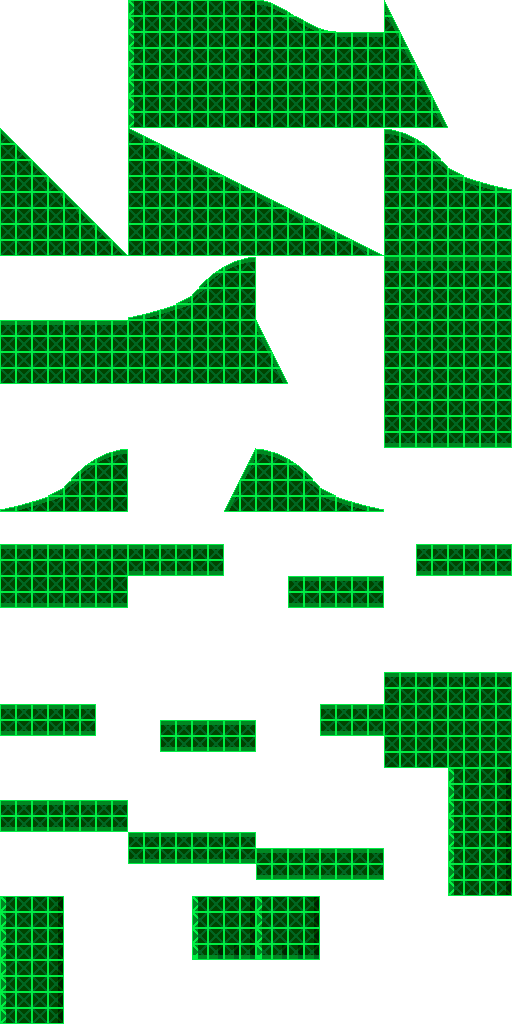
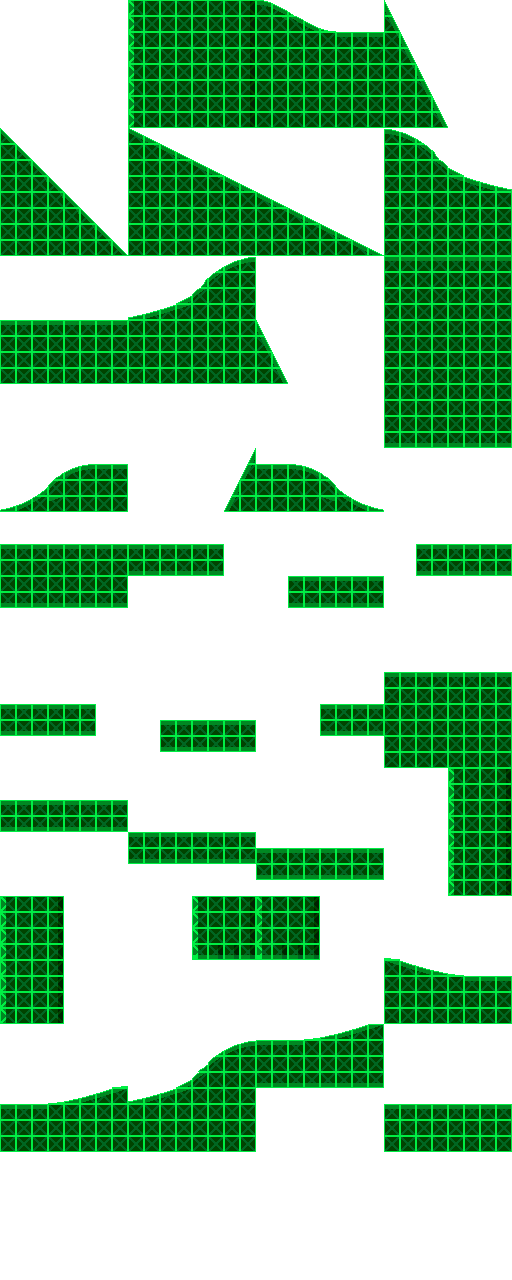
Tweak player and R1 collisions to be more accurate

diff --git a/assets/levels/R1/tiles16.tsx b/assets/levels/R1/tiles16.tsx
@@ -905,8 +905,8 @@
  </tile>
  <tile id="151">
   <objectgroup draworder="index" id="2">
-   <object id="1" x="9.125" y="15.9375">
-    <polygon points="0,0 3.25,-4.5 6.75,-9.875 6.875,0.0625"/>
+   <object id="2" x="16" y="6">
+    <polygon points="0,0.125 -6.875,10 0.0625,9.9375"/>
    </object>
   </objectgroup>
  </tile>
@@ -1666,8 +1666,8 @@
  </tile>
  <tile id="266">
   <objectgroup draworder="index" id="2">
-   <object id="1" x="0.1875" y="6.1875">
-    <polygon points="0,0 4.9375,-5.0625 6.9375,-6.125 15.8125,-6.1875 15.8125,9.8125 -0.1875,9.8125"/>
+   <object id="2" x="16" y="0">
+    <polygon points="0,0 -8.75,0 -11,1.9375 -15.875,6.1875 -16,16 0,16"/>
    </object>
   </objectgroup>
  </tile>

diff --git a/src/player.c b/src/player.c
@@ -146,38 +146,71 @@ _player_collision_linecast(Player *player)
         anchorx = (player->pos.vx >> 12),
         anchory = (player->pos.vy >> 12);
 
+    // Adjust y anchor to y + 8 when on totally flat ground
+    int32_t push_anchory = anchory
+        - ((player->grnd && player->angle == 0) ? 8 : 0) - 8;
+
     uint16_t grn_ceil_dist = WIDTH_RADIUS_NORMAL;
     uint16_t grn_grnd_dist = WIDTH_RADIUS_NORMAL;
     uint16_t grn_mag   = HEIGHT_RADIUS_NORMAL;
     uint16_t ceil_mag  = HEIGHT_RADIUS_NORMAL;
     uint16_t left_mag  = PUSH_RADIUS;
-    uint16_t right_mag = PUSH_RADIUS;
+    uint16_t right_mag = PUSH_RADIUS - 1;
 
     if(player->action == ACTION_ROLLING) {
         grn_ceil_dist = grn_grnd_dist = WIDTH_RADIUS_ROLLING;
         grn_mag = ceil_mag = HEIGHT_RADIUS_ROLLING;
     }
 
+    // Reset sensors
+    player->ev_grnd1 = (CollisionEvent){ 0 };
+    player->ev_grnd2 = (CollisionEvent){ 0 };
+    player->ev_ceil1 = (CollisionEvent){ 0 };
+    player->ev_ceil2 = (CollisionEvent){ 0 };
+    player->ev_left  = (CollisionEvent){ 0 };
+    player->ev_right = (CollisionEvent){ 0 };
+
+    // Ground sensors
     player->ev_grnd1 = linecast(&leveldata, &map128, &map16,
                                 anchorx - grn_grnd_dist, anchory,
                                 CDIR_FLOOR, grn_mag);
     player->ev_grnd2 = linecast(&leveldata, &map128, &map16,
-                                anchorx + grn_grnd_dist, anchory,
+                                anchorx + grn_grnd_dist - 1, anchory,
                                 CDIR_FLOOR, grn_mag);
 
-    player->ev_ceil1 = linecast(&leveldata, &map128, &map16,
-                                anchorx - grn_ceil_dist, anchory,
-                                CDIR_CEILING, ceil_mag);
-    player->ev_ceil2 = linecast(&leveldata, &map128, &map16,
-                                anchorx + grn_ceil_dist, anchory,
-                                CDIR_CEILING, ceil_mag);
+    if(!player->grnd) {
+        // Ceiling sensors
+        player->ev_ceil1 = linecast(&leveldata, &map128, &map16,
+                                    anchorx - grn_ceil_dist, anchory,
+                                    CDIR_CEILING, ceil_mag);
+        player->ev_ceil2 = linecast(&leveldata, &map128, &map16,
+                                    anchorx + grn_ceil_dist - 1, anchory,
+                                    CDIR_CEILING, ceil_mag);
+    }
 
-    player->ev_left = linecast(&leveldata, &map128, &map16,
-                               anchorx, anchory - 8,
-                               CDIR_RWALL, left_mag);
-    player->ev_right = linecast(&leveldata, &map128, &map16,
-                                anchorx, anchory - 8,
-                                CDIR_LWALL, right_mag);
+    // Push sensors
+    uint8_t is_push_active;
+    is_push_active = (!player->grnd && abs(player->vel.vx) > 0);
+    is_push_active = is_push_active ||
+        ((player->grnd && abs(player->vel.vz) > 0)
+         && ((player->angle >= 0x0 && player->angle <= 0x400)
+             || (player->angle >= 0xc00 && player->angle <= 0x1000)));
+
+    if(is_push_active) {
+        // "E" sensor
+        if(player->vel.vx < 0) {
+            player->ev_left = linecast(&leveldata, &map128, &map16,
+                                       anchorx, push_anchory,
+                                       CDIR_LWALL, left_mag);
+        }
+
+        // "F" sensor
+        if(player->vel.vx > 0) {
+            player->ev_right = linecast(&leveldata, &map128, &map16,
+                                        anchorx, push_anchory,
+                                        CDIR_RWALL, right_mag);
+        }
+    }
 
     /* Draw Colliders */
     if(debug_mode > 1) {
@@ -208,42 +241,51 @@ _player_collision_linecast(Player *player)
         else                  setRGB0(line, 23, 99, 63);
         setXY2(line, ax + grn_ceil_dist, ay, ax + grn_ceil_dist, ay + grn_mag);
         sort_prim(line, 0);
+
+        if(!player->grnd) {
+            // Ceiling sensor left
+            line = get_next_prim();
+            increment_prim(sizeof(LINE_F2));
+            setLineF2(line);
+            if(player->ev_ceil1.collided) setRGB0(line, 255, 0, 0);
+            else                  setRGB0(line, 0, 68, 93);
+            setXY2(line, ax - grn_ceil_dist, ay - 8, ax - grn_ceil_dist, ay - 8 - ceil_mag);
+            sort_prim(line, 0);
     
-        // Ceiling sensor left
-        line = get_next_prim();
-        increment_prim(sizeof(LINE_F2));
-        setLineF2(line);
-        if(player->ev_ceil1.collided) setRGB0(line, 255, 0, 0);
-        else                  setRGB0(line, 0, 68, 93);
-        setXY2(line, ax - grn_ceil_dist, ay - 8, ax - grn_ceil_dist, ay - 8 - ceil_mag);
-        sort_prim(line, 0);
+            // Ceiling sensor right
+            line = get_next_prim();
+            increment_prim(sizeof(LINE_F2));
+            setLineF2(line);
+            if(player->ev_ceil2.collided) setRGB0(line, 255, 0, 0);
+            else                  setRGB0( line, 99, 94, 23);
+            setXY2( line, ax + grn_ceil_dist, ay - 8, ax + grn_ceil_dist, ay - 8 - ceil_mag);
+            sort_prim(line, 0);
+        }
+
+        if(is_push_active) {
+            int32_t push_ay = ay + ((player->grnd && player->angle == 0) ? 8 : 0) + 8;
+            // Left sensor
+            if(player->vel.vx < 0) {
+                line = get_next_prim();
+                increment_prim(sizeof(LINE_F2));
+                setLineF2(line);
+                if(player->ev_left.collided) setRGB0(line, 255, 0, 0);
+                else                 setRGB0(line, 99, 23, 99);
+                setXY2(line, ax, push_ay, ax - left_mag, push_ay);
+                sort_prim(line, 0);
+            }
     
-        // Ceiling sensor right
-        line = get_next_prim();
-        increment_prim(sizeof(LINE_F2));
-        setLineF2(line);
-        if(player->ev_ceil2.collided) setRGB0(line, 255, 0, 0);
-        else                  setRGB0( line, 99, 94, 23);
-        setXY2( line, ax + grn_ceil_dist, ay - 8, ax + grn_ceil_dist, ay - 8 - ceil_mag);
-        sort_prim(line, 0);
-    
-        // Left sensor
-        line = get_next_prim();
-        increment_prim(sizeof(LINE_F2));
-        setLineF2(line);
-        if(player->ev_left.collided) setRGB0(line, 255, 0, 0);
-        else                 setRGB0(line, 99, 23, 99);
-        setXY2(line, ax, ay - 8, ax - left_mag, ay - 8);
-        sort_prim(line, 0);
-    
-        // Right sensor
-        line = get_next_prim();
-        increment_prim(sizeof(LINE_F2));
-        setLineF2(line);
-        if(player->ev_right.collided) setRGB0(line, 255, 0, 0);
-        else                  setRGB0(line, 99, 23, 99);
-        setXY2(line, ax, ay - 8, ax + right_mag, ay - 8);
-        sort_prim(line, 0);
+            // Right sensor
+            if(player->vel.vx > 0) {
+                line = get_next_prim();
+                increment_prim(sizeof(LINE_F2));
+                setLineF2(line);
+                if(player->ev_right.collided) setRGB0(line, 255, 0, 0);
+                else                  setRGB0(line, 99, 23, 99);
+                setXY2(line, ax, push_ay, ax + right_mag, push_ay);
+                sort_prim(line, 0);
+            }
+        }
     }
 }
 

diff --git a/src/collision.c b/src/collision.c
@@ -7,22 +7,24 @@ _move_point_linecast(uint8_t direction, int32_t vx, int32_t vy,
                      int32_t *lx, int32_t *ly,
                      uint8_t *lm)
 {
+    const int32_t step = 16;
+    //const int32_t step = 1;
     // Move simulated sensor position backwards within range
     switch(direction) {
     case CDIR_FLOOR: // Directed down
-        (*ly) -= 16;
+        (*ly) -= step;
         if(*ly < vy) *ly = vy;
         goto adjusty;
     case CDIR_RWALL: // Directed left
-        (*lx) += 16;
+        (*lx) -= step; // TODO
         if(*lx > vx) *lx = vx;
         goto adjustx;
     case CDIR_CEILING: // Directed up
-        (*ly) += 16;
+        (*ly) += step;
         if(*ly > vy) *ly = vy;
         goto adjusty;
     case CDIR_LWALL: // Directed right
-        (*lx) -= 16;
+        (*lx) += step; // TODO
         if(*lx < vx) *lx = vx;
         goto adjustx;
     }
@@ -54,6 +56,7 @@ _get_height_and_angle_from_mask(
     Collision *collision = map16->collision[piece];
 
     if(collision == NULL) {
+    abort_retrieve:
         *out_h = 0;
         *out_angle = 0;
         return;
@@ -78,6 +81,7 @@ _get_height_and_angle_from_mask(
         *out_angle = collision->lwall_angle;
         mask = collision->lwall;
         break;
+    default: goto abort_retrieve;
     }
 
     *out_h = (mask[hpos >> 1] >> ((1 - (hpos & 0x1)) << 2)) & 0x0f;
@@ -100,6 +104,27 @@ _get_new_position(uint8_t direction,
     return 0;
 }
 
+int32_t
+_get_tip_height(LinecastDirection direction,
+                int32_t lx, int32_t ly)
+{
+    switch(direction) {
+    case CDIR_FLOOR:
+        return 15 - (ly & 0x0f);
+        break;
+    case CDIR_CEILING:
+        return ly & 0x0f;
+        break;
+    case CDIR_LWALL:
+        return (lx & 0x0f);
+        break;
+    case CDIR_RWALL:
+        return 15 - (lx & 0x0f);
+        break;
+    };
+    return 0;
+}
+
 CollisionEvent
 linecast(LevelData *lvl, TileMap128 *map128, TileMap16 *map16,
          int32_t vx, int32_t vy, LinecastDirection direction, uint8_t magnitude)
@@ -118,8 +143,8 @@ linecast(LevelData *lvl, TileMap128 *map128, TileMap16 *map16,
     switch(direction) {
     case CDIR_FLOOR:   ly += magnitude; break; // Directed downwards, collides with top of tile
     case CDIR_CEILING: ly -= magnitude; break; // Directed upwards, collides with bottom of tile
-    case CDIR_RWALL:   lx -= magnitude; break; // Directed left, collides with right of tile
-    case CDIR_LWALL:   lx += magnitude; break; // Directed right, collides with left of tile
+    case CDIR_RWALL:   lx += magnitude; break; // Directed right, collides with left of tile
+    case CDIR_LWALL:   lx -= magnitude; break; // Directed left, collides with right of tile
     }
 
     uint8_t n_max = (magnitude >> 4) + 1;
@@ -149,18 +174,21 @@ linecast(LevelData *lvl, TileMap128 *map128, TileMap16 *map16,
                 uint8_t h;
                 int32_t angle;
 
-                hpos = _get_height_position(lx, ly, direction);
+                hpos = _get_height_position(lx, ly, direction) & 0x0f;
 
                 _get_height_and_angle_from_mask(
                     map16, piece, direction, hpos, &h, &angle);
 
                 if(h > 0) {
-                    int32_t coord = _get_new_position(direction, cx, cy, px, py, h);
-                    ev = (CollisionEvent) {
-                        .collided = 1,
-                        .coord = coord,
-                        .angle = angle,
-                    };
+                    int32_t tip_height = _get_tip_height(direction, lx, ly);
+                    if(direction == CDIR_FLOOR || (h >= tip_height)) {
+                        int32_t coord = _get_new_position(direction, cx, cy, px, py, h);
+                        ev = (CollisionEvent) {
+                            .collided = 1,
+                            .coord = coord,
+                            .angle = angle,
+                        };
+                    }
                 }
             }
         }
@@ -168,6 +196,5 @@ linecast(LevelData *lvl, TileMap128 *map128, TileMap16 *map16,
         // If continuing, move linecast point forward
         _move_point_linecast(direction, vx, vy, &lx, &ly, &lm);
     }
-
     return ev;
 }

diff --git a/include/player.h b/include/player.h
@@ -16,7 +16,10 @@
 #define Y_GRAVITY        0x0380
 #define Y_MIN_JUMP       0x4000
 #define Y_JUMP_STRENGTH  0x6800
+#define X_ROLL_FRICTION  0x0060
+#define X_ROLL_DECEL     0x0200
 
+// Constants for adjusting hitbox and sensors
 #define WIDTH_RADIUS_NORMAL      8
 #define HEIGHT_RADIUS_NORMAL    19
 #define WIDTH_RADIUS_ROLLING     7

diff --git a/src/memalloc.c b/src/memalloc.c
@@ -56,5 +56,5 @@ fastalloc_free()
 void *
 fastalloc_malloc(uint32_t size)
 {
-    alloc_arena_malloc(&scratchpad_arena, size);
+    return alloc_arena_malloc(&scratchpad_arena, size);
 }
